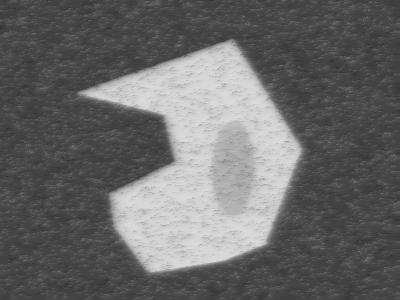
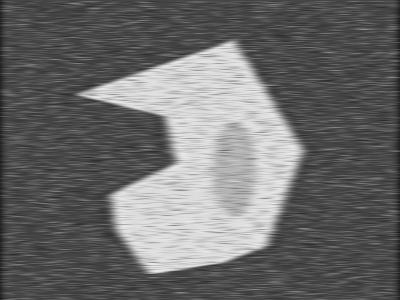
:bug::poop:Написал костыль для черной полосы на изображении

diff --git a/lab_EData/model.py b/lab_EData/model.py
@@ -50,18 +50,39 @@ def convolution_img(img: np.ndarray, my_filter: np.ndarray) -> np.ndarray:
     n: int = len(img)
     m: int = len(my_filter)
 
-    y: list = []
-    for i in range(n):
-        y_k: int = 0
-        for j in range(m):
-            coefficient_x: int = i - j
-            if coefficient_x >= 0:
-                y_m = img[coefficient_x] * my_filter[j]
-            else:
-                y_m = 0
-            y_k += y_m
+    y_black_line_right: list = []
+    y_black_line_left: list = []
 
-        y.append(y_k)
+    for i in range(n):
+        y_k_right: int = 0
+        y_k_left: int = 0
+        for j in range(m):
+            coefficient_x_right: int = i + j
+            if coefficient_x_right < n:
+                if coefficient_x_right >= 0:
+                    y_m_right = img[coefficient_x_right] * my_filter[j]
+                else:
+                    y_m_right = 0
+                y_k_right += y_m_right
+
+            coefficient_x_left: int = i - j
+            if coefficient_x_left >= 0:
+                y_m_left = img[coefficient_x_left] * my_filter[j]
+            else:
+                y_m_left = 0
+            y_k_left += y_m_left
+
+        y_black_line_right.append(y_k_right)
+        y_black_line_left.append(y_k_left)
+
+    knife = int(m/2)
+    y = y_black_line_left[knife:]
+    knife_2 = len(y_black_line_right) - knife
+    y_black_line_right = y_black_line_right[:knife_2]
+    knife_2 = len(y_black_line_right) - knife
+    y_black_line_right = y_black_line_right[knife_2:]
+    for i in range(len(y_black_line_right)):
+        y.append(y_black_line_right[i])
 
     img_after_filtration = np.array(y)
     return img_after_filtration

diff --git a/lab_EData/image.py b/lab_EData/image.py
@@ -2,7 +2,6 @@ import math
 import array
 import os
 import random
-import cv2
 
 import numpy as np
 from PIL import Image, ImageDraw, ImageFilter
@@ -358,7 +357,7 @@ def cdf_function(path: str, normalisation: bool = False) -> object:
     if normalisation is True:
         cdf_max: int = np.amax(cdf_y)
         for i in range(0, cdf_x.size):
-            cdf_y[i] = int(cdf_y[i] / cdf_max * 255)
+            cdf_y[i] = int(cdf_y[i] / cdf_max * 256)
 
     model = Model("Кумулятивная функция распределения")
     model.y = cdf_y
